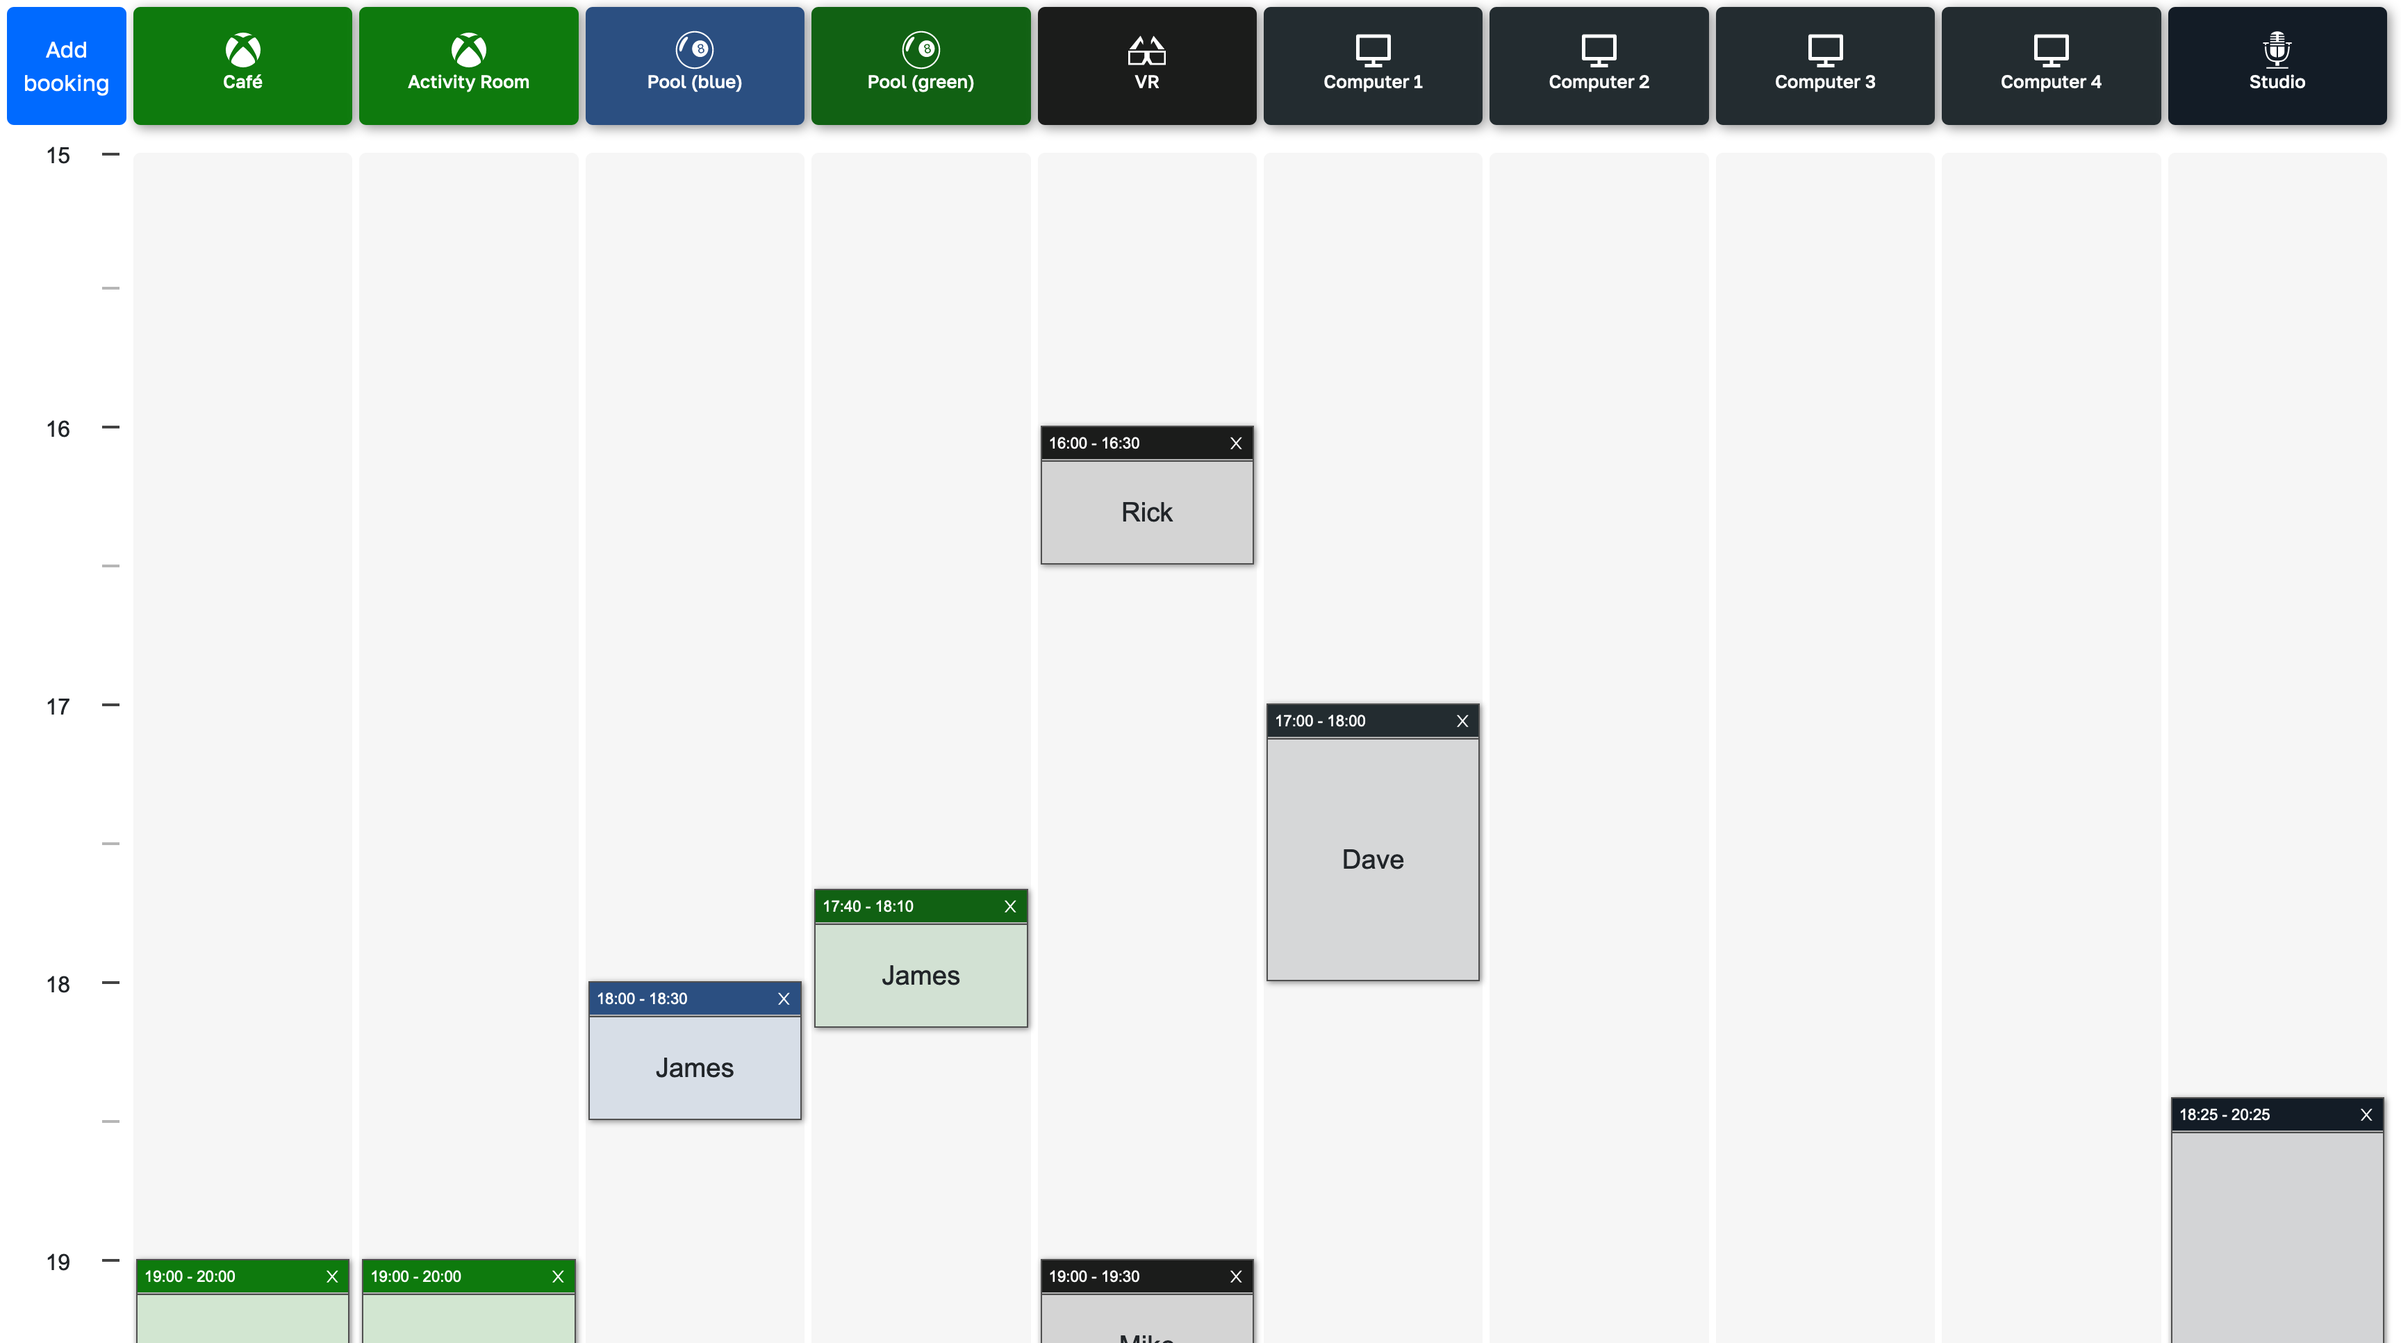
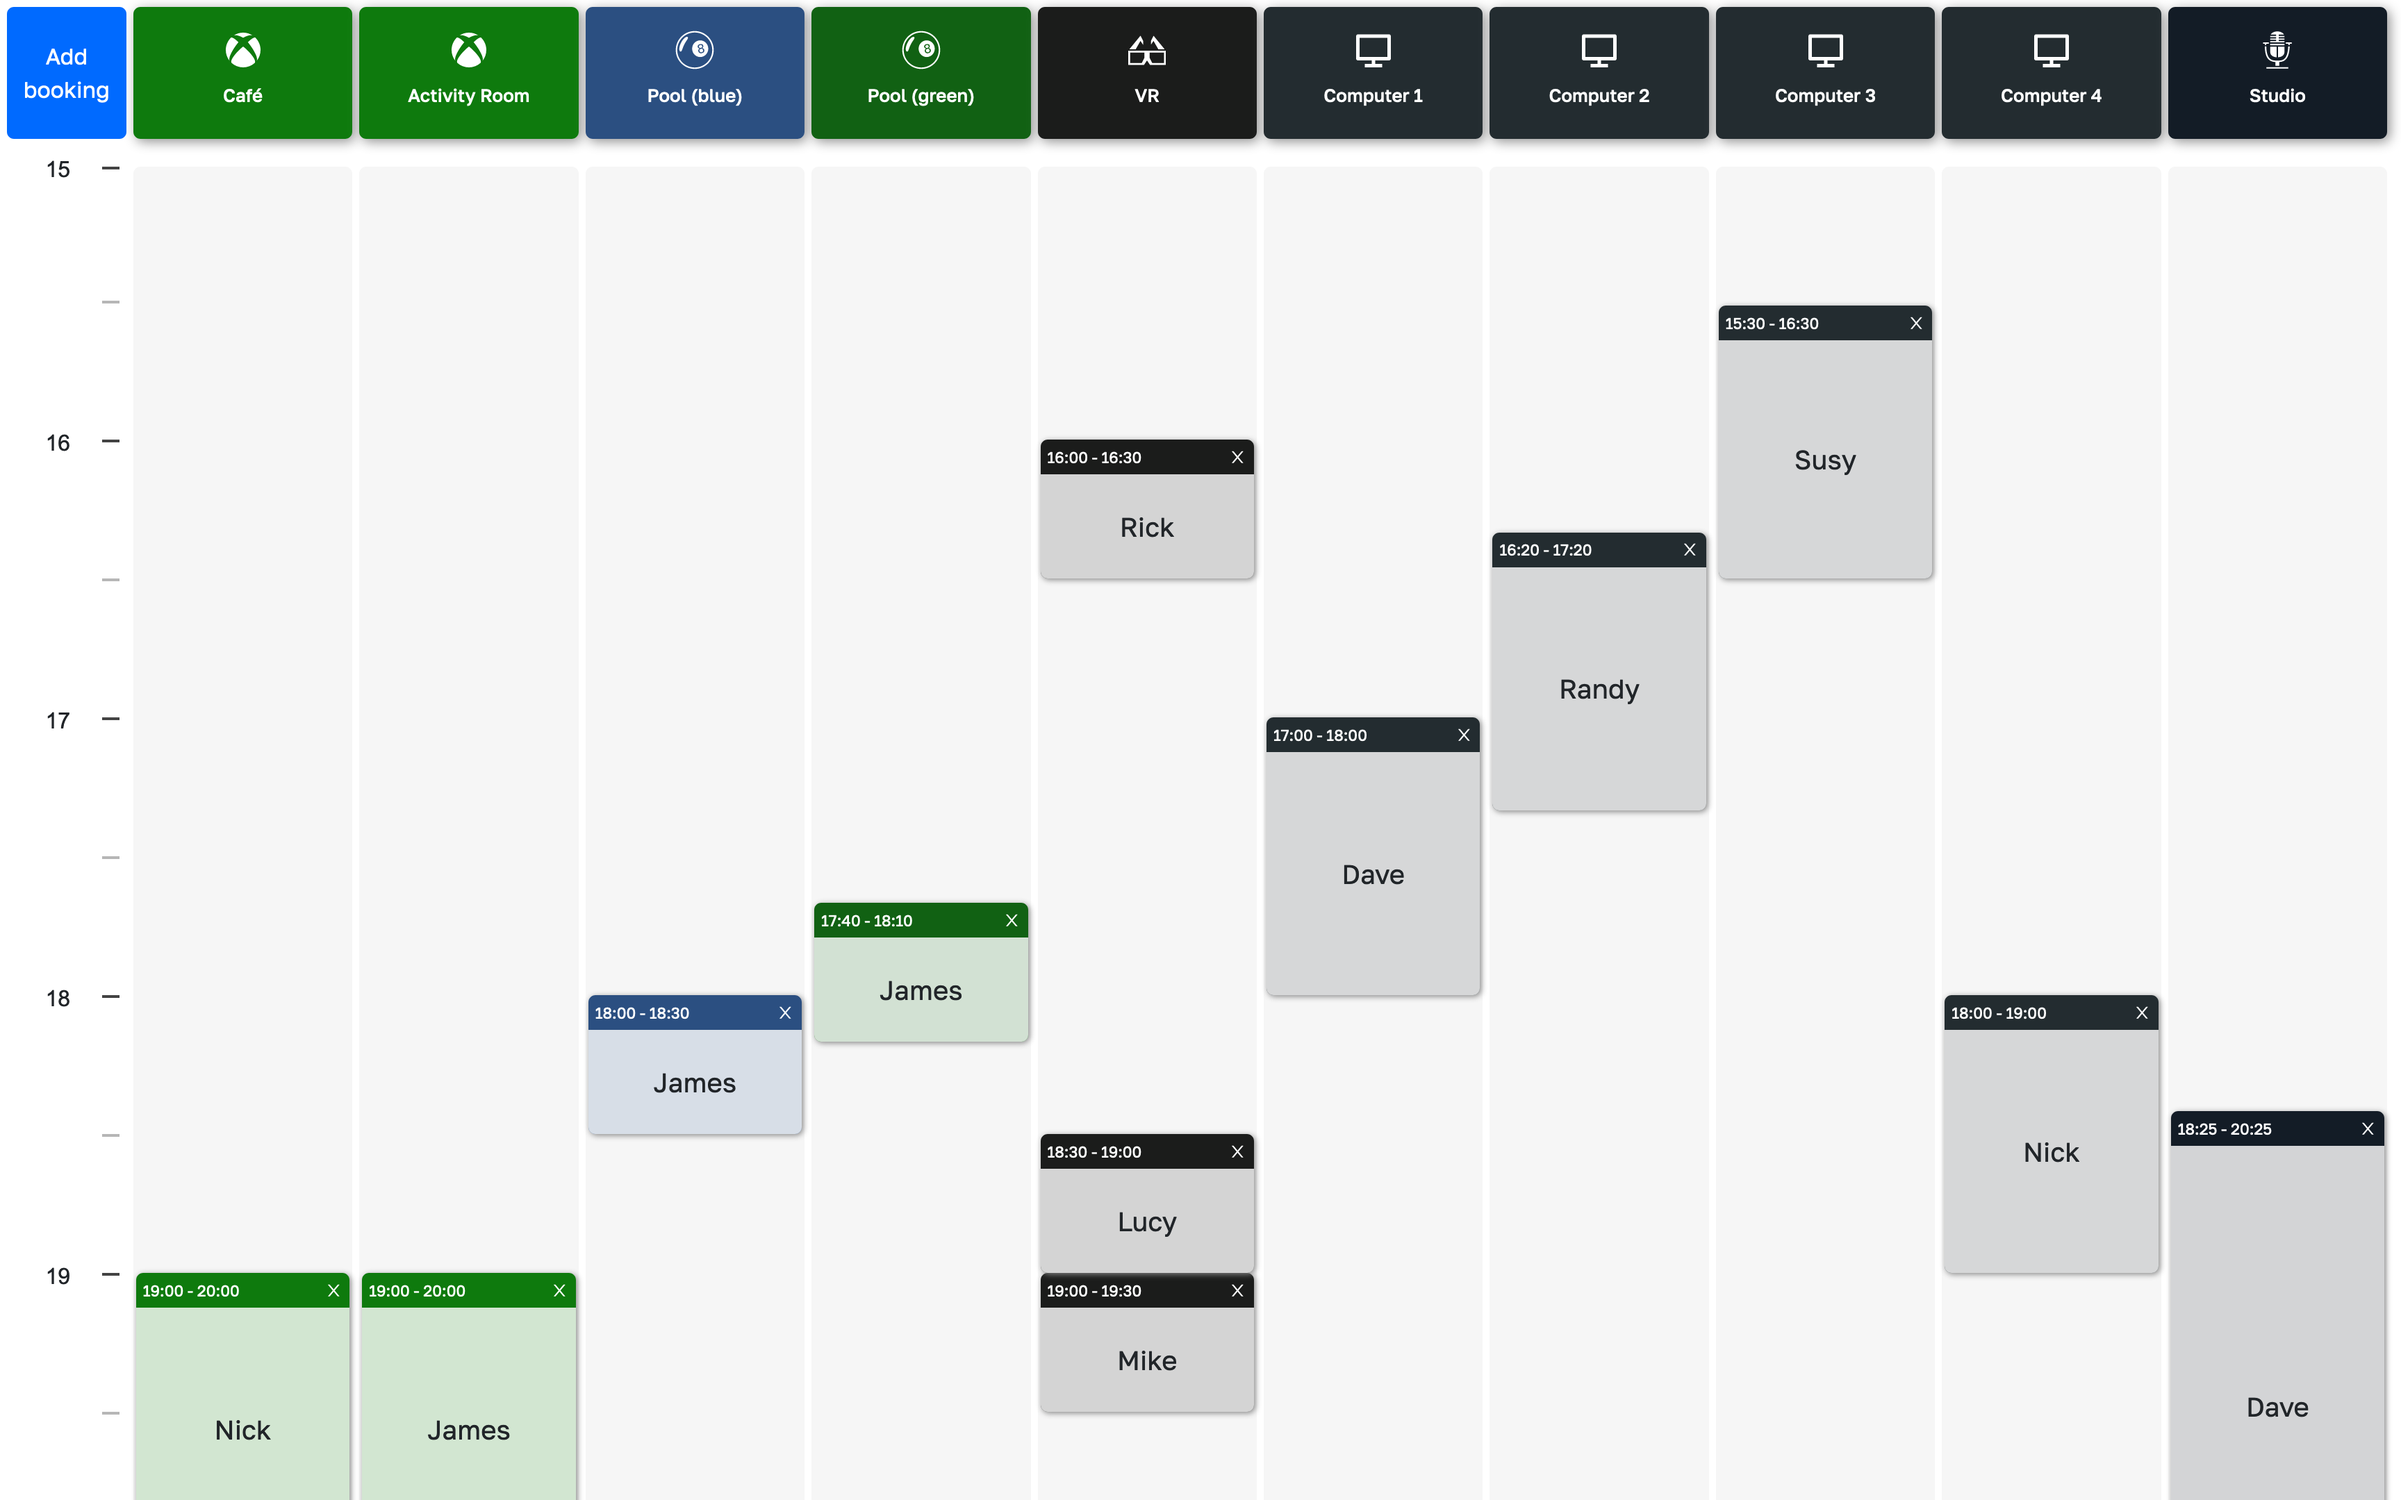
Changed styling for booking slots

diff --git a/client/src/components/booking/booking.css b/client/src/components/booking/booking.css
@@ -3,8 +3,10 @@
   grid-template-rows: 25px auto;
   min-height: 100px;
   margin: 0 2px 0 2px;
-  border: 1px solid rgb(80, 80, 80);
+  /* border: 1px solid rgb(80, 80, 80); */
   box-shadow: 1px 1px 4px rgb(134, 134, 134);
+  border-radius: 5px;
+  font-family: "Golos Text", sans-serif;
 }
 
 .bookingSlotHeader {
@@ -14,7 +16,7 @@
   align-items: center;
   justify-content: space-between;
   padding: 5px;
-  border-bottom: ridge 2px black;
+  /* border-bottom: solid 2px black; */
   color: white;
   /* width: 100%; */
   font-size: smaller;
@@ -39,6 +41,7 @@
   justify-content: center;
   align-items: center;
   font-size: larger;
+  border-radius: 0 0 5px 5px;
 }
 
 /* -------------------------- */

diff --git a/client/src/components/addBookings/addbooking.css b/client/src/components/addBookings/addbooking.css
@@ -4,6 +4,7 @@
   padding: 2.5rem;
   display: grid;
   grid-template-rows: 10% 90%;
+  overflow: scroll;
 }
 
 .listRow > td {
